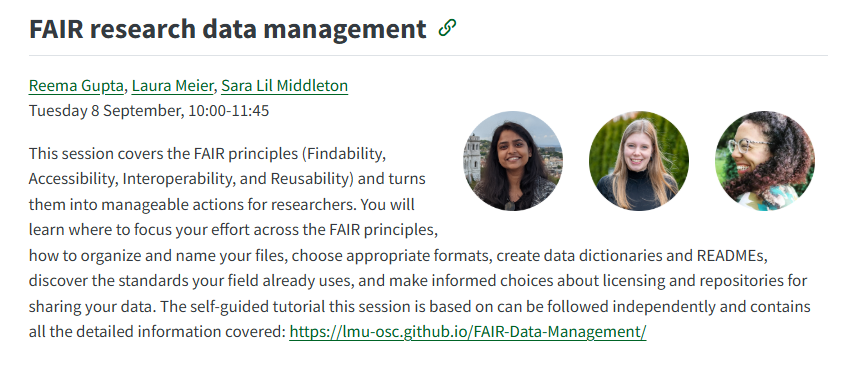
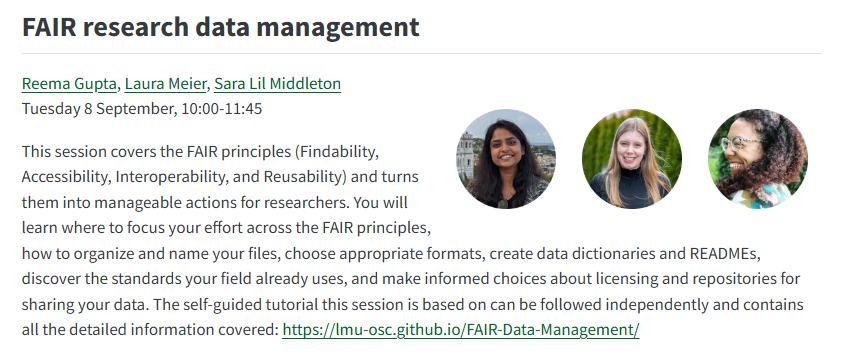
Built site for gh-pages

diff --git a/2026/slides.html b/2026/slides.html
@@ -146,10 +146,9 @@ Laura Meier, Reema Gupta &amp; Sara Lil Middleton
 </div>
 
 </section>
-<section id="following-on-yesterdays-fair-session" class="slide level2 center">
+<section id="following-on-yesterdays-fair-session" class="slide level2 center nostretch">
 <h2>Following on yesterday’s FAIR session</h2>
-
-<img data-src="images/FAIR-RDM-session.png" class="r-stretch"><div class="smaller">
+<p><img data-src="images/FAIR-RDM-session.png"></p>
 <div class="callout callout-tip callout-titled callout-style-default">
 <div class="callout-body">
 <div class="callout-title">
@@ -160,7 +159,6 @@ Laura Meier, Reema Gupta &amp; Sara Lil Middleton
 </div>
 <div class="callout-content">
 <p>Tuesday 8 September, 10:00 - 11:45: FAIR research data management</p>
-</div>
 </div>
 </div>
 </div>
@@ -358,10 +356,10 @@ Laura Meier, Reema Gupta &amp; Sara Lil Middleton
 <p>Visit <a href="https://partici.fi/36972724">partici.fi/36972724</a> to participate.</p>
 </div></div>
 </section>
-<section id="dmp-keywords" class="slide level2 center img">
+<section id="dmp-keywords" class="slide level2 center nostretch">
 <h2>DMP keywords</h2>
-
-<img data-src="images/word-cloud-particify.png" class="r-stretch"></section></section>
+<p><img data-src="images/word-cloud-particify.png"></p>
+</section></section>
 <section>
 <section id="part-ii-why-bother-planning-your-data-management" class="title-slide slide level1 section-title part center" data-background-color="#0067ac">
 <h1>Part II: Why bother planning your Data Management?</h1>
